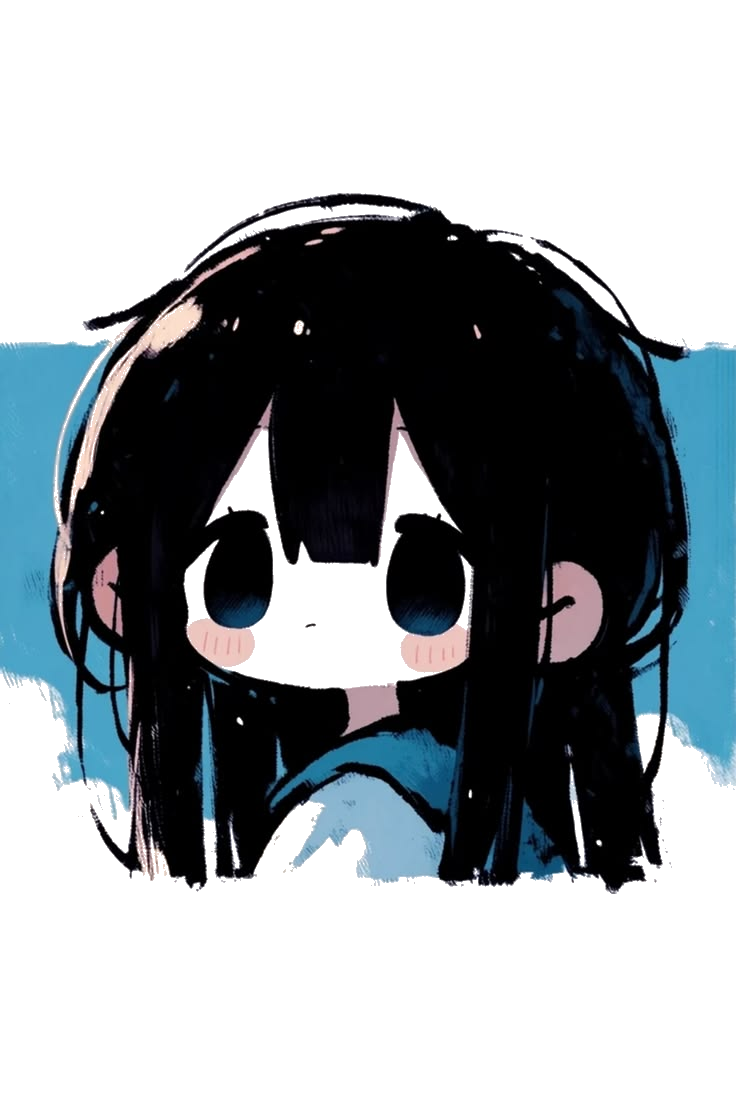
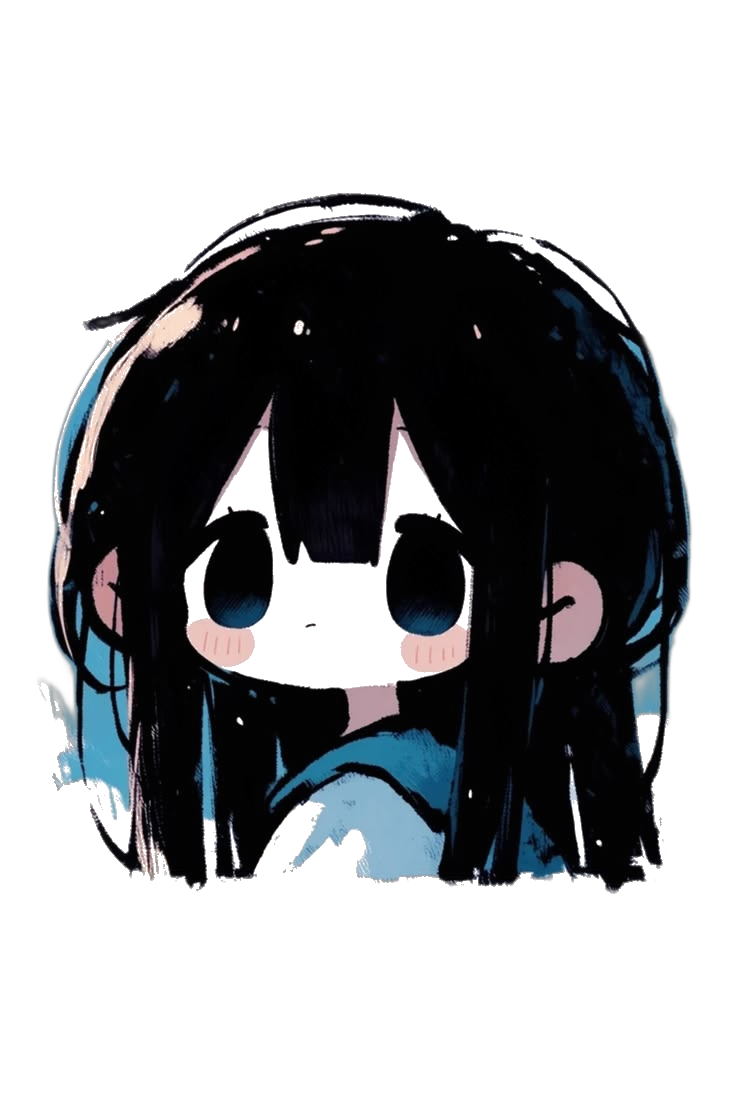
Remove mascot background (rembg) and refine blink animation with double-blink pattern

Changed region(s): [[0.8438, 0.308, 1.0, 0.7083], [0.0, 0.2772, 0.1562, 0.6775], [0.1875, 0.7699, 0.2188, 0.8007]]

diff --git a/src/pages/Landing.tsx b/src/pages/Landing.tsx
@@ -19,12 +19,19 @@ export default function Landing() {
       {/* ── Blink animation ─────────────────────────────── */}
       <style>{`
         @keyframes mascot-blink {
-          0%, 90%, 96%, 100% { transform: scaleY(1); }
-          93% { transform: scaleY(0.08); }
+          0%, 35%  { transform: scaleY(1); }
+          37%      { transform: scaleY(0.15); }
+          40%      { transform: scaleY(0.15); }
+          43%      { transform: scaleY(1); }
+          60%      { transform: scaleY(1); }
+          62%      { transform: scaleY(0.15); }
+          65%      { transform: scaleY(0.15); }
+          68%      { transform: scaleY(1); }
+          100%     { transform: scaleY(1); }
         }
         .mascot-blink {
-          animation: mascot-blink 4.5s ease-in-out infinite;
-          transform-origin: center 40%;
+          animation: mascot-blink 5s ease-in-out infinite;
+          transform-origin: center 33%;
         }
       `}</style>
       {/* ── Hero ──────────────────────────────────────────── */}
@@ -59,6 +66,7 @@ export default function Landing() {
               src="/mascot.png"
               alt="Cute chibi mascot reading a book"
               className="w-full h-auto drop-shadow-lg mascot-blink"
+              draggable={false}
               animate={{ scale: [1, 1.03, 1, 1.03, 1] }}
               transition={{ duration: 4, repeat: Infinity, ease: "easeInOut" }}
             />
